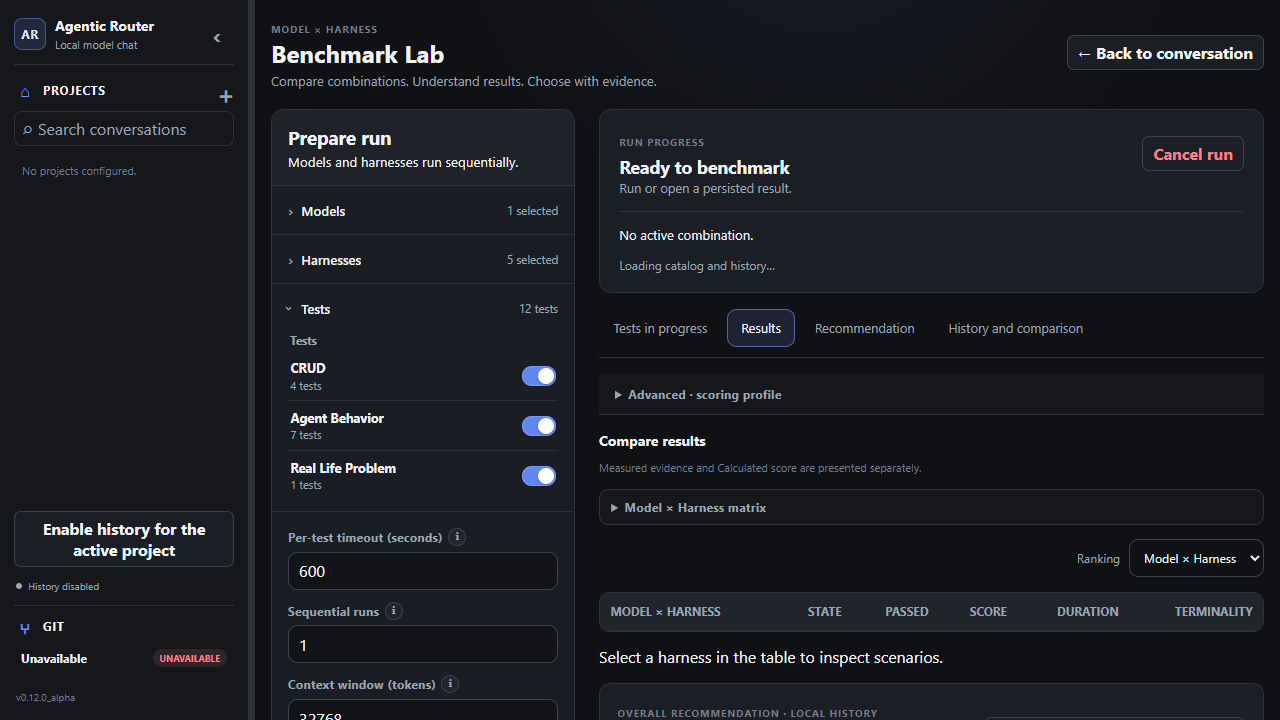
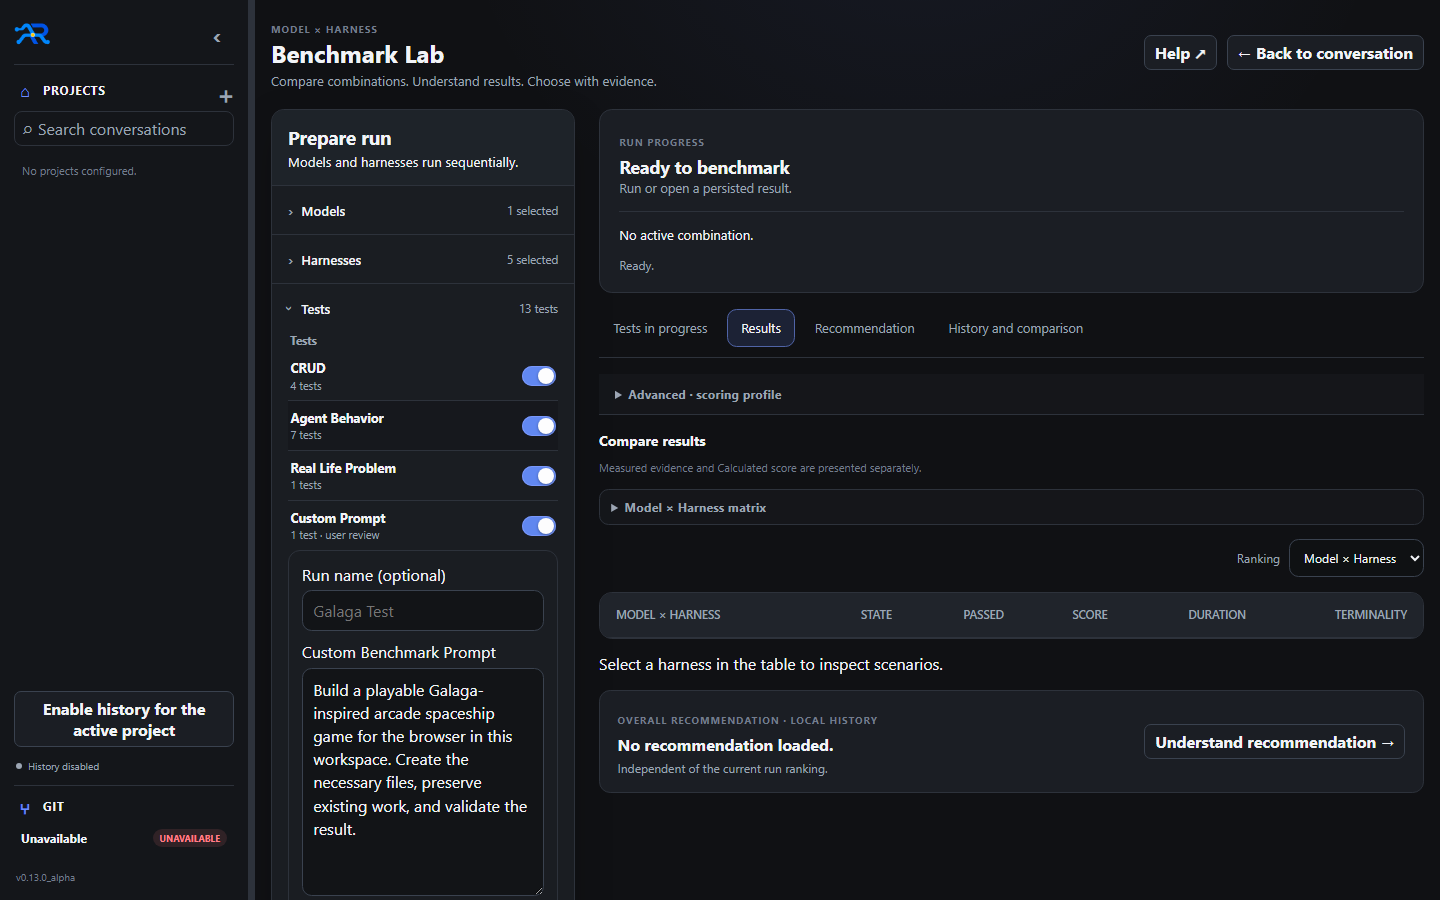
docs: update public release content for 0.13.0_alpha

diff --git a/README.md b/README.md
@@ -1,5 +1,7 @@
 # Agentic Router — portable Windows and Linux x64 guide
 
+<img src="brand/agentic-router-full.png" alt="Agentic Router" width="480">
+
 Agentic Router runs local AI conversations and supervised workspace changes through a selected **model + harness**. The portable Windows and Linux x64 packages include the application and the .NET runtime; Ollama, local models, and optional harnesses are installed separately from the first-run screen or **Settings → Local resources**. Linux ARM64 and macOS are not supported release targets yet.
 
 > **Alpha software:** review generated changes before committing them. Agentic Router confines Execute actions to the trusted workspace, but models can still make incorrect changes.
@@ -8,24 +10,26 @@ Agentic Router runs local AI conversations and supervised workspace changes thro
 
 | Version | Platform | Package | Checksum |
 | --- | --- | --- | --- |
-| `v0.12.0_alpha` | Windows x64 | [Download ZIP](https://github.com/Shakansis/agentic-router-releases/releases/download/v0.12.0_alpha/AgenticRouter-0.12.0_alpha-win-x64.zip) | [SHA-256](https://github.com/Shakansis/agentic-router-releases/releases/download/v0.12.0_alpha/AgenticRouter-0.12.0_alpha-win-x64.zip.sha256) |
-| `v0.12.0_alpha` | Linux x64 | [Download tar.gz](https://github.com/Shakansis/agentic-router-releases/releases/download/v0.12.0_alpha/AgenticRouter-0.12.0_alpha-linux-x64.tar.gz) | [SHA-256](https://github.com/Shakansis/agentic-router-releases/releases/download/v0.12.0_alpha/AgenticRouter-0.12.0_alpha-linux-x64.tar.gz.sha256) |
+| `v0.13.0_alpha` | Windows x64 | [Download ZIP](https://github.com/Shakansis/agentic-router-releases/releases/download/v0.13.0_alpha/AgenticRouter-0.13.0_alpha-win-x64.zip) | [SHA-256](https://github.com/Shakansis/agentic-router-releases/releases/download/v0.13.0_alpha/AgenticRouter-0.13.0_alpha-win-x64.zip.sha256) |
+| `v0.13.0_alpha` | Linux x64 | [Download tar.gz](https://github.com/Shakansis/agentic-router-releases/releases/download/v0.13.0_alpha/AgenticRouter-0.13.0_alpha-linux-x64.tar.gz) | [SHA-256](https://github.com/Shakansis/agentic-router-releases/releases/download/v0.13.0_alpha/AgenticRouter-0.13.0_alpha-linux-x64.tar.gz.sha256) |
 
 [View all versions and release notes](https://github.com/Shakansis/agentic-router-releases/releases).
 
-## What's new in 0.12.0_alpha
+## What's new in 0.13.0_alpha
 
-- Adds Agentic Router-owned local Ollama servers for explicit CUDA, ROCm, and
-  opt-in combined Vulkan selections, while leaving Auto and custom endpoints
-  user-managed and never silently falling back to another backend.
-- Combines NVIDIA, AMD, and other Windows adapters in runtime telemetry and
-  distinguishes configured affinity from observed Ollama runner placement.
-- Runs CRUD, Agent Behavior, and the new Real Life Problem suite through the
-  production Execute path, with independent artifact/browser validation,
-  structured Markdown reports, and 1–20 separate sequential repetitions.
-- Adds Host-mediated interactive questions during an Execute turn, bounded
-  persistent-session compaction, shared SSE presentation, and stronger
-  cross-harness supervision, approval, diagnostic, and effect evidence.
+- Reattaches an accepted Chat turn after browser refresh without resubmitting
+  it; long local conversations load in bounded pages with their full transcript
+  still available.
+- Adds bounded Execute recovery for supported context failures and missing Qwen
+  sessions, while durable Supervisor checkpoints require reconciled resume after
+  persistent storage failure.
+- Rebuilds live Benchmark Lab state after an event replay gap and retains
+  completed results when infrastructure or final-result storage fails. Exact
+  custom prompts can be run for separate manual quality review.
+- Gives explicit per-model GPU affinity precedence over legacy role preferences
+  and keeps managed backend/device servers independent across roles.
+- Reports unavailable local resources without blocking the interface; managed
+  Ollama startup retries readiness without silently switching backend or GPU.
 
 ## 1. Download and start
 
@@ -34,8 +38,8 @@ Agentic Router runs local AI conversations and supervised workspace changes thro
 3. Verify a Windows download in PowerShell:
 
    ```powershell
-   (Get-FileHash .\AgenticRouter-0.12.0_alpha-win-x64.zip -Algorithm SHA256).Hash.ToLowerInvariant()
-   Get-Content .\AgenticRouter-0.12.0_alpha-win-x64.zip.sha256
+   (Get-FileHash .\AgenticRouter-0.13.0_alpha-win-x64.zip -Algorithm SHA256).Hash.ToLowerInvariant()
+   Get-Content .\AgenticRouter-0.13.0_alpha-win-x64.zip.sha256
    ```
 
    The two hashes must match.
@@ -43,7 +47,7 @@ Agentic Router runs local AI conversations and supervised workspace changes thro
    Verify a Linux download with:
 
    ```bash
-   sha256sum -c AgenticRouter-0.12.0_alpha-linux-x64.tar.gz.sha256
+   sha256sum -c AgenticRouter-0.13.0_alpha-linux-x64.tar.gz.sha256
    ```
 
 4. Extract the archive to a writable folder. Do not run the application from inside the archive.
